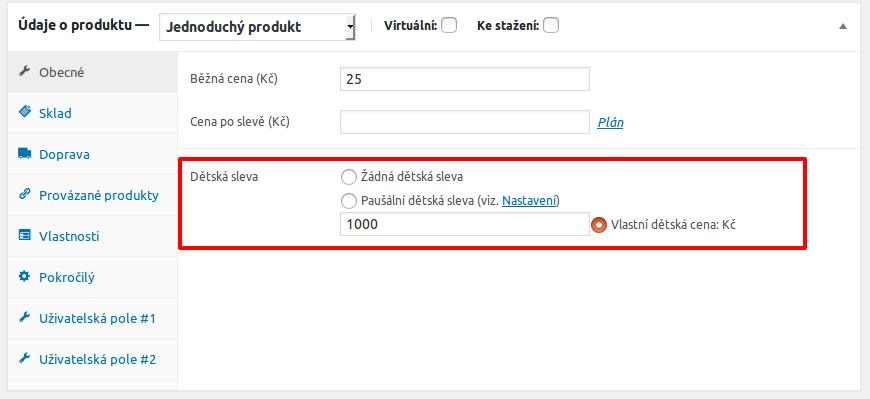
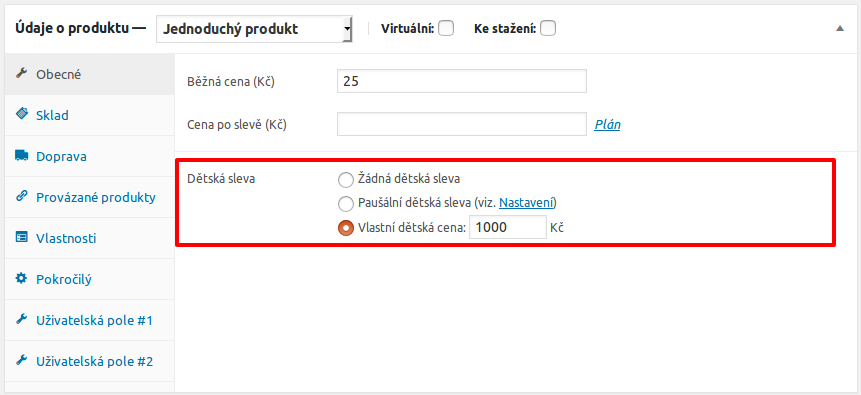
Fixed form styles.

diff --git a/odwp-wc-krx_child_price.php b/odwp-wc-krx_child_price.php
@@ -134,8 +134,20 @@ if( ! class_exists( 'ODWP_WC_Krx_Child_Price' ) ) :
          * @uses add_filter
          */
         public function init() {
+            add_action( 'admin_head', array( $this, 'admin_head' ) );
             add_action( 'woocommerce_product_options_general_product_data', array( $this, 'add_general_panel_fields' ) );
             add_action( 'woocommerce_process_product_meta', array( $this, 'save_product_meta' ) );
+        }
+
+        public function admin_head() {
+            echo <<<HTML
+<style type="text/css">
+#odwpwcchp-child_price_custom {
+    float: none;
+    width: 78px !important;
+}
+</style>
+HTML;
         }
 
         /**
